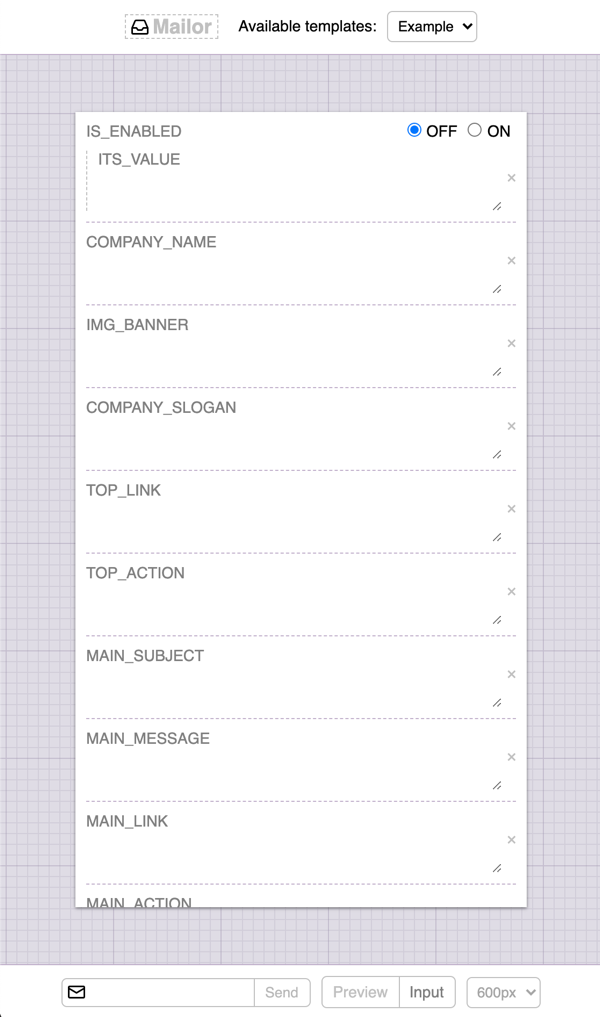
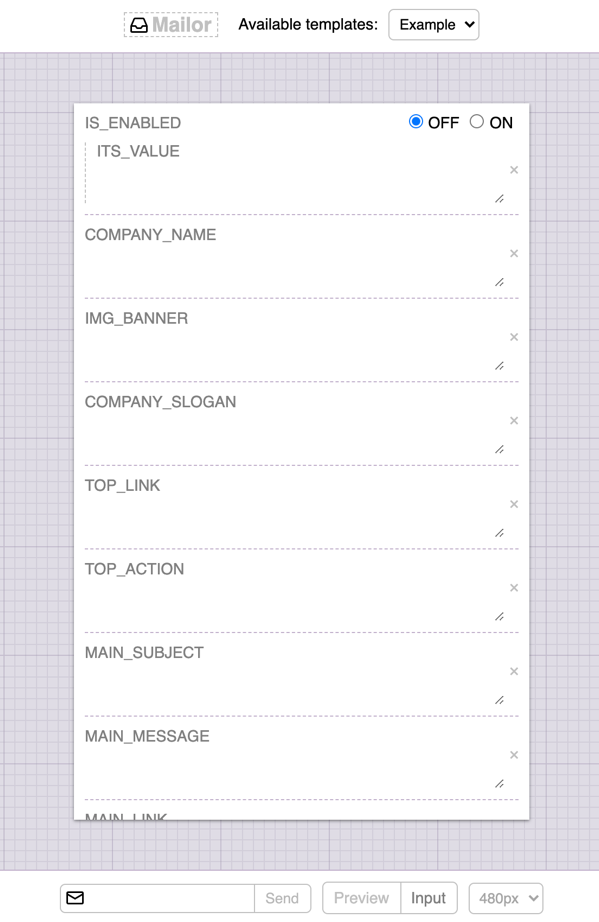
chore: organize images

diff --git a/README.md b/README.md
@@ -4,7 +4,7 @@
 
 <div align="center">
 
-<img src="inbox.svg" width="250" height="250" />
+<img src="public/inbox.svg" width="250" height="250" />
 
 [![Build Status](https://api.travis-ci.org/tacoss/mailor.svg?branch=master)](https://travis-ci.org/tacoss/mailor)
 [![NPM version](https://badge.fury.io/js/mailor.svg)](http://badge.fury.io/js/mailor)
@@ -75,9 +75,9 @@ mjml
 
 <table>
   <tr><td>
-    <img src="public/preview.png" alt="Preview panel" width="300" height="508" />
+    <img src="public/preview.png" alt="Preview panel" width="300" height="461" />
   </td><td>
-    <img src="public/input.png" alt="Input panel" width="300" height="508" />
+    <img src="public/input.png" alt="Input panel" width="300" height="461" />
   </td></tr>
 </table>
 
